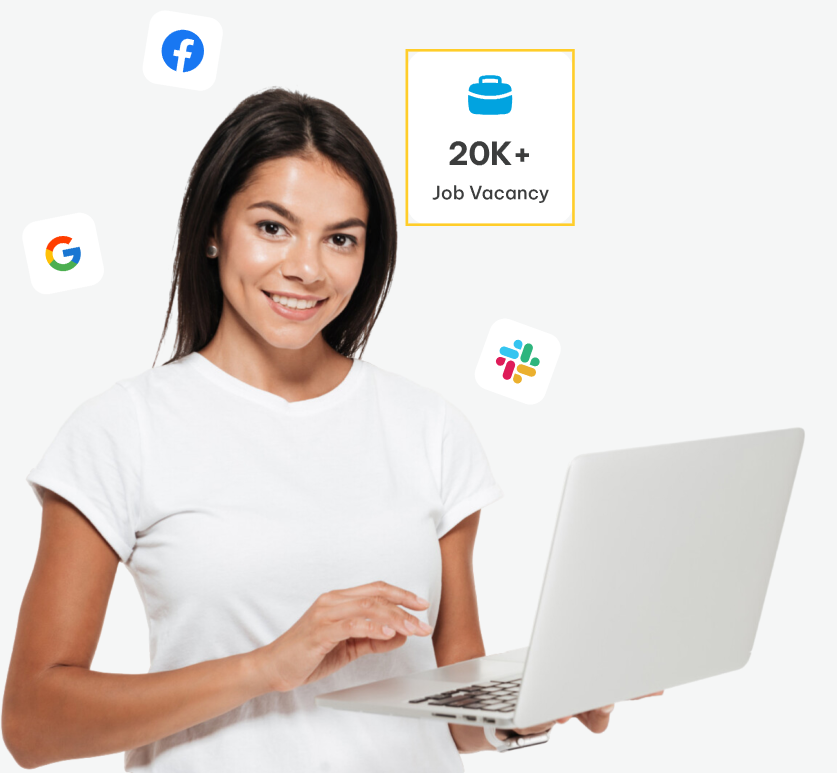
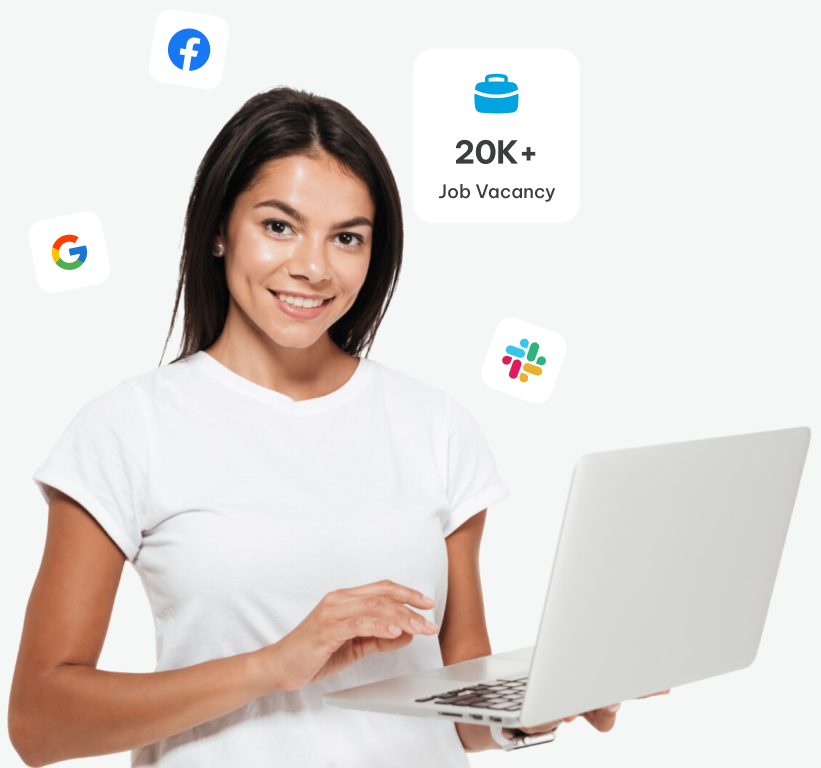
task updated

diff --git a/task2/src/Footer.jsx b/task2/src/Footer.jsx
@@ -1,40 +1,42 @@
 // import React from 'react';
 import logo from "./assets/logo.png";
-import './Footer.css'
+
 const Footer = () => {
   return (
-    <footer className="footer">
-      <div className="footer-section">
-      <img src = {logo} alt="" />
-        <p>
-        Lorem ipsum dolor sit amet consectetur. Nibh leo amet sed orci ipsum lectus pretium diam. Placerat ipsum volutpat commodo sodales.
-        </p>
-      </div>
-      <div className="footer-section">
-        <h3>Job Seekers</h3>
-        <ul>
-          <li><a href="#">Search Jobs</a></li>
-          <li><a href="#">Explore Jobs</a></li>
-          <li><a href="#">Saved Jobs</a></li>
-          <li><a href="#">Applied Jobs</a></li>
-        </ul>
-      </div>
-      <div className="footer-section">
-        <h3>Employers</h3>
-        <ul>
-          <li><a href="#">Register</a></li>
-          <li><a href="#">Post Jobs</a></li>
-          <li><a href="#">Applications</a></li>
-          <li><a href="#">My Job Postings</a></li>
-        </ul>
-      </div>
-      <div className="footer-section">
-        <h3>Legal</h3>
-        <ul>
-          <li><a href="#">Cookies Policy</a></li>
-          <li><a href="#">Privacy Policy</a></li>
-          <li><a href="#">Terms of Services</a></li>
-        </ul>
+    <footer className="bg-gray-800 text-white">
+      <div className="container mx-auto py-8 px-4">
+        <div className="flex flex-wrap justify-center">
+          <div className="w-full md:w-1/4 text-center mb-8 md:mb-0">
+            <img src={logo} alt="Logo" className="mx-auto mb-4" />
+            <p className="text-sm">Lorem ipsum dolor sit amet consectetur. Nibh leo amet sed orci ipsum lectus pretium diam. Placerat ipsum volutpat commodo sodales.</p>
+          </div>
+          <div className="w-full md:w-1/4 text-center">
+            <h3 className="text-lg font-semibold mb-4">Job Seekers</h3>
+            <ul className="text-sm">
+              <li className="mb-2"><a href="#" className="hover:text-gray-400">Search Jobs</a></li>
+              <li className="mb-2"><a href="#" className="hover:text-gray-400">Explore Jobs</a></li>
+              <li className="mb-2"><a href="#" className="hover:text-gray-400">Saved Jobs</a></li>
+              <li className="mb-2"><a href="#" className="hover:text-gray-400">Applied Jobs</a></li>
+            </ul>
+          </div>
+          <div className="w-full md:w-1/4 text-center">
+            <h3 className="text-lg font-semibold mb-4">Employers</h3>
+            <ul className="text-sm">
+              <li className="mb-2"><a href="#" className="hover:text-gray-400">Register</a></li>
+              <li className="mb-2"><a href="#" className="hover:text-gray-400">Post Jobs</a></li>
+              <li className="mb-2"><a href="#" className="hover:text-gray-400">Applications</a></li>
+              <li className="mb-2"><a href="#" className="hover:text-gray-400">My Job Postings</a></li>
+            </ul>
+          </div>
+          <div className="w-full md:w-1/4 text-center">
+            <h3 className="text-lg font-semibold mb-4">Legal</h3>
+            <ul className="text-sm">
+              <li className="mb-2"><a href="#" className="hover:text-gray-400">Cookies Policy</a></li>
+              <li className="mb-2"><a href="#" className="hover:text-gray-400">Privacy Policy</a></li>
+              <li className="mb-2"><a href="#" className="hover:text-gray-400">Terms of Services</a></li>
+            </ul>
+          </div>
+        </div>
       </div>
     </footer>
   );

diff --git a/task2/src/Container.jsx b/task2/src/Container.jsx
@@ -1,44 +1,53 @@
-import "./App.css";
+// import React from "react";
 import image from "./assets/image.png";
 import Checkbox from "./assets/Checkbox.png";
 
-
-
-function container() {
+function Container() {
   return (
     <>
-      <div className="content-container">
-        <div className="content-container__text">
-          <p> <img src = {Checkbox} alt="checkbox" />Your Trusted Career Patner</p>
+      <div className="bg-gray-100 py-12 px-4 sm:px-6 lg:px-8 flex flex-col md:flex-row items-center">
+        <div className="md:w-1/2">
+          <div className="max-w-lg mx-auto">
+            <p className="flex items-center mb-4">
+              <img src={Checkbox} alt="checkbox" className="w-4 h-4 mr-2" />
+              Your Trusted Career Partner
+            </p>
+            <h1 className="text-3xl md:text-4xl lg:text-5xl font-bold mb-4">
+              Unlock Your Dream <span className="text-blue-500">Career</span>
+            </h1>
+            <p className="text-gray-700 mb-6">
+              Our platform is dedicated to empowering individuals, connecting
+              talent with the right opportunities, and fostering professional
+              growth.
+            </p>
+            <div className="bg-white p-4 rounded-md shadow-md flex items-center justify-between mb-6 w-auto">
+              <input
+                className="cont-input mb-2 md:mr-2 focus:outline-none focus:ring-0"
+                type="text"
+                placeholder="Job title, Keyword..."
+              />
+              <input
+                className="cont-input mb-2 md:mr-2 focus:outline-none focus:ring-0"
+                type="text"
+                placeholder="Enter Location"
+              />
 
-          <h1>Unlock Your Dream <span style={{color:'#01A3E0'}}>Career</span></h1>
-          <p>
-            Our platform is dedicated to empowering individuals, connecting
-            talent with the right opportunities, and fostering professional
-            growth.
-          </p>
+              <button className="bg-blue-500 text-white border-none py-4 px-2 w-2/4 rounded-md cursor-pointer ml-2">
+                Search
+                </button>
+            </div>
 
-          <div className="cont-input-bar">
-            <input
-              className="cont-input"
-              type="text"
-              placeholder="Job tittle, Keyword..."
-            />
-            <input
-              className="cont-input"
-              type="text"
-              placeholder="Enter Location"
-            />
-            <button className="cont-btn">Search Job</button>
+            <p className="text-gray-600">
+              Popular Searches: Designer, Developer, Programmer, Architect
+            </p>
           </div>
-          <p>Popular Searches: Designer, Developer, Programmer, Architect</p>
         </div>
-        <div className="content-container__image">
-          <img src={image} alt="Image" />
+        <div className="md:w-1/2">
+          <img src={image} alt="Image" className="w-full" />
         </div>
       </div>
     </>
   );
 }
 
-export default container;
+export default Container;

diff --git a/task2/src/Card.jsx b/task2/src/Card.jsx
@@ -1,17 +1,27 @@
 // import React from 'react';
+import cplogo from "./assets/cplogo.png";
 
 const Card = () => {
   return (
-    <div style={{ maxWidth: '20rem', backgroundColor: '#ffffff', boxShadow: '0 4px 6px rgba(0, 0, 0, 0.1)', borderRadius: '0.5rem', overflow: 'hidden' }}>
-      <div style={{ padding: '1rem 1.5rem' }}>
-        <h2 style={{ color: '#333333', fontSize: '1.25rem', fontWeight: 'bold' }}>Card Title</h2>
-        <p style={{ color: '#666666', marginTop: '0.5rem' }}>Lorem ipsum dolor sit amet, consectetur adipiscing elit. Sed do eiusmod tempor incididunt ut labore et dolore magna aliqua.</p>
-      </div>
-      <div style={{ display: 'flex', justifyContent: 'space-between', alignItems: 'center', padding: '0.75rem 1.5rem', backgroundColor: '#333333' }}>
-        <p style={{ color: '#cccccc', margin: '0' }}>Author</p>
-        <a href="#" style={{ padding: '0.25rem 0.5rem', backgroundColor: '#cccccc', color: '#333333', fontSize: '0.75rem', fontWeight: 'bold', borderRadius: '0.25rem', textDecoration: 'none' }}>Read more</a>
-      </div>
+    <div className="max-w-md bg-white shadow-md rounded-md overflow-hidden relative">
+    <div className="flex justify-between items-center p-4">
+      <img src= {cplogo} alt="Company Logo" className="h-12 w-12 object-contain" />
+      <button className="bg-blue-500 text-white px-4 py-2 rounded-md">Apply Now</button>
     </div>
+    <div className="p-4">
+      <h3 className="text-lg font-semibold">Job Title</h3>
+      <p className="text-gray-600 mb-2">Company Name</p>
+      <p className="text-gray-700">Job Description Lorem ipsum dolor sit amet consectetur adipisicing elit. Tempora, eveniet!</p>
+      <p className="text-gray-600 mt-2">Location: City, Country</p>
+      <p className="text-gray-600">Salary: $50,000 - $70,000</p>
+    </div>
+    <div className="absolute bottom-4 right-4">
+      <svg xmlns="http://www.w3.org/2000/svg" className="h-6 w-6 text-gray-400 hover:text-gray-600 cursor-pointer" viewBox="0 0 20 20" fill="currentColor">
+        <path fillRule="evenodd" d="M10 3a.75.75 0 01.75.75v12.132l2.61-2.61a.75.75 0 111.06 1.06l-3.5 3.5a.75.75 0 01-1.06 0l-3.5-3.5a.75.75 0 111.06-1.06l2.61 2.61V3.75A.75.75 0 0110 3zM4.75 0A2.75 2.75 0 002 2.75v16.5a.25.25 0 00.416.197L10 13.86l7.584 6.438a.25.25 0 00.416-.197v-16.5A2.75 2.75 0 0015.25 0h-10.5zM10 12.018l-5.295 4.486L4 16.064V2.75C4 1.784 4.784 1 5.75 1h8.5c.966 0 1.75.784 1.75 1.75v13.314l-.705.44L10 12.018z" clipRule="evenodd" />
+      </svg>
+    </div>
+  </div>
+  
   );
 }
 

diff --git a/task2/src/Companies.jsx b/task2/src/Companies.jsx
@@ -1,13 +1,14 @@
-// import React from "react";
+import React from "react";
 import company from "./assets/companies.png";
+
 const Company = () => {
   return (
-    <div className="flex flex-col items-center justify-center h-screen">
+    <div className="flex flex-col items-center justify-center h-screen bg-gray-100">
       <h2 className="text-3xl font-bold mb-8">Join in globally renowned companies</h2>
       <div className="flex flex-wrap justify-center gap-4">
-        <img src= {company} alt="Company 1" className="h-16 px-3.5" />
-        {/* <img src="company2.png" alt="Company 2" className="h-16" />
-        <img src="company3.png" alt="Company 3" className="h-16" /> */}
+        <img src={company} alt="Company 1" className="h-12 px-3.5" />
+        {/* <img src="company2.png" alt="Company 2" className="h-12" />
+        <img src="company3.png" alt="Company 3" className="h-12" /> */}
       </div>
     </div>
   );

diff --git a/task2/src/App.jsx b/task2/src/App.jsx
@@ -1,22 +1,25 @@
 import "./App.css";
-// import Categories from "./Categories";
+import Categories from "./Categories";
 import Navbar from "./Navbar";
 import Container from "./Container";
 // import Card from "./Card";
 import Footer from "./Footer";
 import Tile from "./Tile";
-import Company from "./Companies";
+import SmallCard from "./SmallCard";
 
+import Company from "./Companies";
 
 function App() {
   return (
     <>
       <Navbar />
       <Container />
+      <SmallCard/>
       {/* <Categories /> */}
-      <Tile/>
+      <Tile />
       {/* <Card/> */}
-<Company/>
+
+      <Company />
       <Footer />
     </>
   );

diff --git a/task2/src/App.css b/task2/src/App.css
@@ -53,10 +53,12 @@
 }
 
 .navbar__buttons button:hover {
-  background-color: #0056b3;
+ cursor: pointer;
 }
 
 /* for container */
+
+/* 
 .content-container {
   background-color: #f5f6f6;
   display: flex;
@@ -72,7 +74,6 @@
 
 .content-container__text h1 {
   font-size: 40px;
-  /* font-size: large; */
   font-weight: 900;
   margin-bottom: 10px;
 }
@@ -105,7 +106,7 @@
   border: none;
   border-radius: 4px;
   cursor: pointer;
-}
+} */
 
 
 /* for categories
